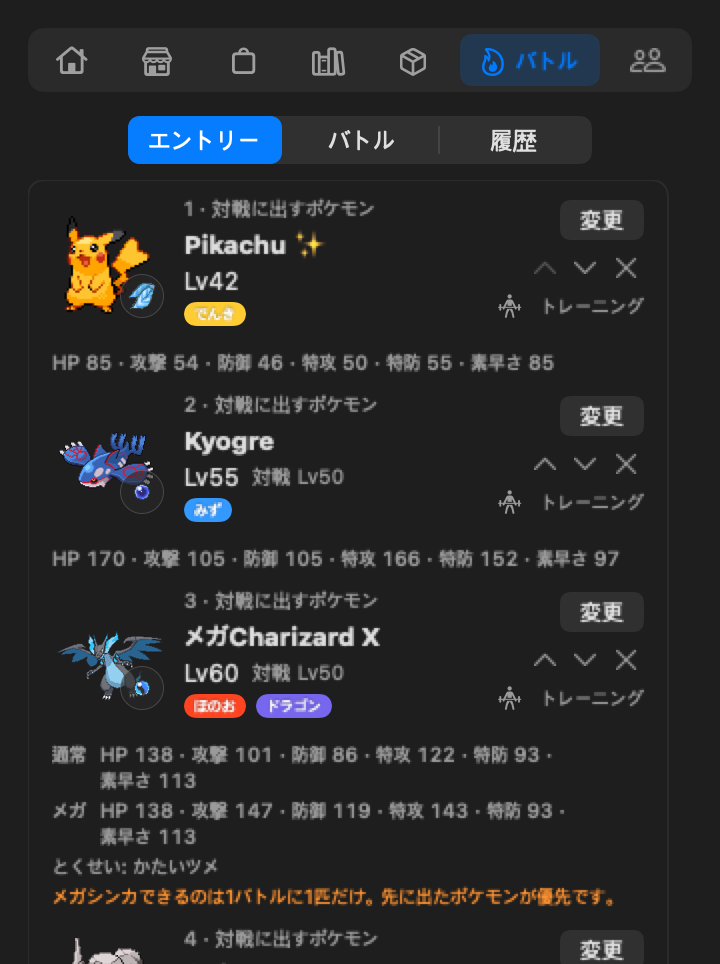
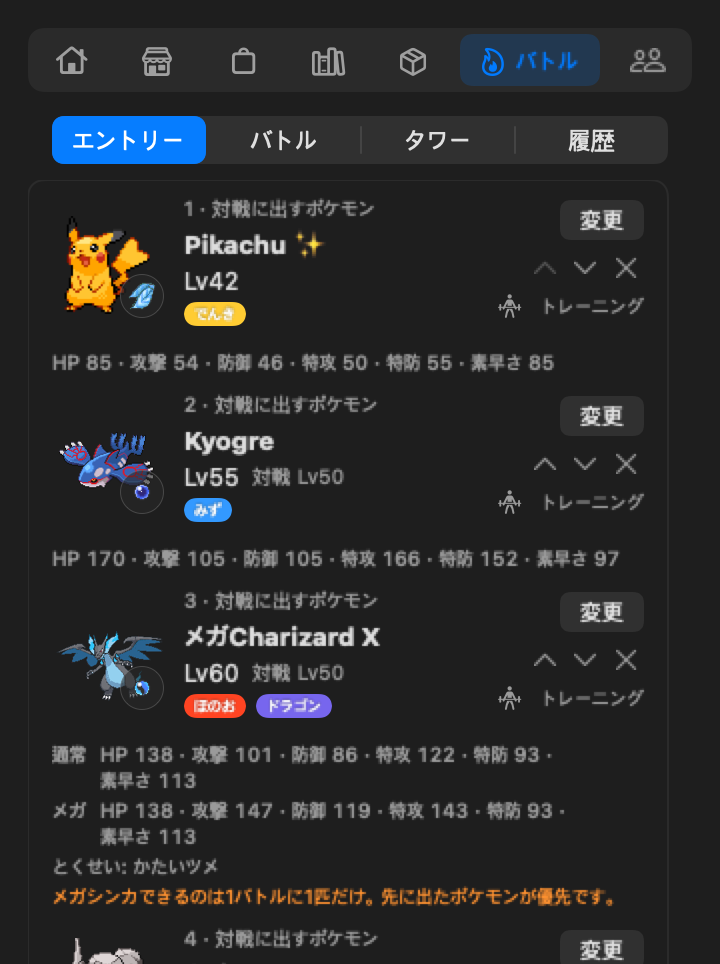
docs(readme): add the Battle Tower with its screenshots (#60)
* test(readme): draw the tower README screen

Adds screenshot-tower (en/ko/ja) to the README render and maps Tower*.swift to it in the asset gate.

* docs(readme): add the Battle Tower with its screenshots

diff --git a/Tests/PokeTokenBarTests/ReadmeScreenshotTests.swift b/Tests/PokeTokenBarTests/ReadmeScreenshotTests.swift
@@ -694,6 +694,54 @@ final class ReadmeScreenshotTests: XCTestCase {
             .environment(\.locale, language.displayLocale)
     }
 
+    func testDrawTowerReadmeImage() async throws {
+        guard let output = ProcessInfo.processInfo.environment["PTB_README_SHOT_DIR"] else {
+            throw XCTSkip("Set PTB_README_SHOT_DIR to draw the README images")
+        }
+        let dir = URL(fileURLWithPath: output)
+        try FileManager.default.createDirectory(at: dir, withIntermediateDirectories: true)
+        let scratch = FileManager.default.temporaryDirectory.appendingPathComponent("readme-tower-\(UUID())")
+        try FileManager.default.createDirectory(at: scratch, withIntermediateDirectories: true)
+        defer { try? FileManager.default.removeItem(at: scratch) }
+        for id in [448, 445, 373] {
+            _ = await SpriteLoader.image(speciesID: id)
+            _ = await SpriteLoader.image(speciesID: id, back: true)
+        }
+        let moveNames = PokemonNameDisplayStore()
+        await MoveName.load(ids: StubMoveNames.table.keys, store: moveNames, provider: StubMoveNames())
+        self.moveNames = moveNames
+        for (language, suffix) in languages {
+            var state = CompanionState()
+            state.language = language
+            state.installBaselineSet = true
+            state.dex = [TowerFixtures.entry(448, id: "a"), TowerFixtures.entry(445, id: "b"), TowerFixtures.entry(373, id: "c")]
+            state.tower.bp = 37
+            state.tower.entry = ["a", "b", "c"]
+            state.tower.records["entry"] = TowerModeRecord(streak: 23, best: 31, trophies: ["silver"])
+            let file = scratch.appendingPathComponent("state-\(UUID()).json")
+            try JSONEncoder().encode(state).write(to: file)
+            let store = CompanionStore(provider: ReadmeTowerProvider(), fileURL: file)
+            let bot = TowerFakeBot()
+            bot.replies["/v1/tower/record"] = [(TowerFixtures.record(
+                entry: TowerFixtures.run(streak: 23, best: 31, trophies: ["silver"]),
+                rental: TowerFixtures.run("rental", streak: 0, best: 12)), 200)]
+            let service = TowerService(link: { GymService.Link(server: Self.server, token: "synthetic") },
+                                       exchange: bot.exchange, apply: { run, gain in store.applyTower(run, gain: gain) })
+            await service.load()
+            XCTAssertFalse(service.runs.isEmpty)
+            let defaults = try XCTUnwrap(UserDefaults(suiteName: "readme-tower-\(UUID())"))
+            let tower = VStack(alignment: .leading, spacing: 6) {
+                Text(store.l.towerTitle).font(.caption).fontWeight(.semibold).foregroundStyle(.secondary)
+                    .textCase(.uppercase).padding(.leading, 4)
+                TowerSection(store: store, entry: BattleEntryStore(defaults: defaults), service: service,
+                             onPickSlot: { _ in }).ptbCard()
+            }
+            .padding(PopoverMetrics.padding)
+            .environment(\.locale, language.displayLocale)
+            try await shot(tower, "screenshot-tower\(suffix)", in: dir, height: nil)
+        }
+    }
+
     func testDrawUsageRecapImages() async throws {
         guard let output = ProcessInfo.processInfo.environment["PTB_README_SHOT_DIR"] else {
             throw XCTSkip("Set PTB_README_SHOT_DIR to draw the README images")
@@ -993,4 +1041,10 @@ private struct ReplayCast {
             GymFixtures.event(5, "faint", side: 1, member: 1),
         ]
     }
+}
+
+private struct ReadmeTowerProvider: PokeProviding {
+    func line(baseSpeciesID: Int) async throws -> EvoLine { throw URLError(.notConnectedToInternet) }
+    func baseSpeciesIndex() async throws -> [BaseSpecies] { [] }
+    func baseSpecies(id: Int) async throws -> BaseSpecies? { nil }
 }

diff --git a/scripts/release-asset-gate.py b/scripts/release-asset-gate.py
@@ -55,6 +55,7 @@ SCREENS = (
     ("GymResultView.swift", ("screenshot-gym-replay", "screenshot-hidden-boss")),
     ("Gym*.swift", ("screenshot-gyms",)),
     ("Battle*.swift", ("screenshot-battle",)),
+    ("Tower*.swift", ("screenshot-tower",)),
     ("SettingsView.swift", ("settings", "screenshot-provider-settings")),
     ("SettingsTab.swift", ("settings", "screenshot-provider-settings")),
     ("GrowthModeSection.swift", ("screenshot-growth-mode",)),

diff --git a/README.md b/README.md
@@ -45,6 +45,7 @@ PokeTokenBar turns the AI coding tokens you're already burning — Claude Code, 
 5. 🍬 **Max out, get a candy.** Fill a 5-hour or weekly usage limit and you earn **Rare Candy** — spend it from the **Bag** to grow your current Pokémon.
 6. 🛒 **Spend at the Shop.** Every token you've used is spendable currency — buy **Rare Candy**, a **Mint** that sets your Pokémon's nature to the one you pick, a **Shiny Charm** that permanently raises your shiny odds, or an egg to send off your current companion and start over. Eggs come in three grades: a plain **Pokémon Egg**, a **Rare Egg** guaranteed to hatch Rare or better, and an **Epic Egg** guaranteed to hatch Epic or better. A **Scout Ticket** for each region (or all of them) shows 10 random Pokémon from it so you can pick the egg you want.
 7. 🔁 **Trade with coworkers.** Swap graduated Pokémon with a linked coworker from the Friends tab (the other side accepts in Slack), or send a graduated Pokémon straight from its Box detail. Or put one up for **Miracle Trade** in the battle channel: the first coworker to pick one of theirs trades with you at once. Pokémon that evolve by trade, like Haunter or Kadabra, now stop there until they're traded — or until you use a **Linking Cord** from the Shop on one in your Box. Trade evolutions that also need a held item (Onix with Metal Coat, Seadra with Dragon Scale, …) need that item equipped on the Pokémon first, in its Box detail; Karrablast and Shelmet evolve when traded for each other, or with a Linking Cord while the other one is your friend.
+8. 🗼 **Climb the Battle Tower.** Once YPoke is linked, take three Pokémon at Lv50 up a streak of battles, with your own team or three rentals. Win tower owner trophies at battles 20 and 50, spend the BP you earn at the exchange, and see how your coworkers rank.
 
 ## Tour
 
@@ -267,6 +268,15 @@ A gym fight plays back turn by turn: moves, damage, HP bars, and each side's rem
 <td width="45%" align="center"><img src="assets/screenshot-gym-replay.png" width="300" alt="A gym battle replay stopped mid-fight"></td>
 </tr>
 <tr>
+<td width="45%" align="center"><img src="assets/screenshot-tower.png" width="300" alt="Battle tab, Tower sub-tab — a streak of 23 with the entry's three Pokémon, 37 BP and the Fight button"></td>
+<td width="55%" valign="middle">
+<h3>🗼 The Battle Tower</h3>
+The <b>Tower</b> sub-tab in the Battle tab is a streak of 3-on-3 battles at Lv50. Pick <b>My team</b> or <b>Rental</b>: your own three, or three rented Pokémon with their moves set for you. Battles come in sets of 10. A win moves you to the next battle; a loss ends the run, and your best streak stays. At battles <b>20</b> and <b>50</b> the tower owner waits, and beating them earns a trophy. With rentals, each win lets you swap in one of the Pokémon you beat.
+<br><br>
+Wins pay <b>BP</b>. Spend them at the exchange in the Tower, where the <b>Legendary Scout Ticket</b> is sold. The Coworkers tab shows a Tower ranking of your linked coworkers. In Slack, <code>/타워</code> posts the best-streak ranking to the channel, or one coworker's record when you add their name. Your first owner win and new bests are posted to the battle channel too; turn that off with the checkbox under the Fight button.
+</td>
+</tr>
+<tr>
 <td width="45%" align="center"><img src="assets/screenshot-champion-finale.png" width="300" alt="The Elite Four run with the champion's hidden partner, and the replay as it comes out"></td>
 <td width="55%" valign="middle">
 <h3>👑 The champion's hidden partner</h3>
@@ -328,7 +338,7 @@ Reset countdowns include the clock time, and the colored percentage stays aligne
 
 <img src="assets/screenshot-usage-recap.png" width="360" alt="Usage recap for a selected period">
 
-<small>The Home, Settings, form, Shop, Bag, Pokédex, next-evolution, Box, profile, Exp. Share, Battle, gym, replay, champion, floating-friends, stored-friends, growth-mode, activity, regional Pokédex, pet-interaction, and recap images above are local renders of the production UI with sample data; the gym images use the YPoke bot's Kanto gym list. The regional and pet boards combine separate native UI component renders. Animated GIFs are illustrative demonstrations and may show an earlier layout.</small>
+<small>The Home, Settings, form, Shop, Bag, Pokédex, next-evolution, Box, profile, Exp. Share, Battle, Tower, gym, replay, champion, floating-friends, stored-friends, growth-mode, activity, regional Pokédex, pet-interaction, and recap images above are local renders of the production UI with sample data; the gym images use the YPoke bot's Kanto gym list. The regional and pet boards combine separate native UI component renders. Animated GIFs are illustrative demonstrations and may show an earlier layout.</small>
 
 ## Agent activity
 
